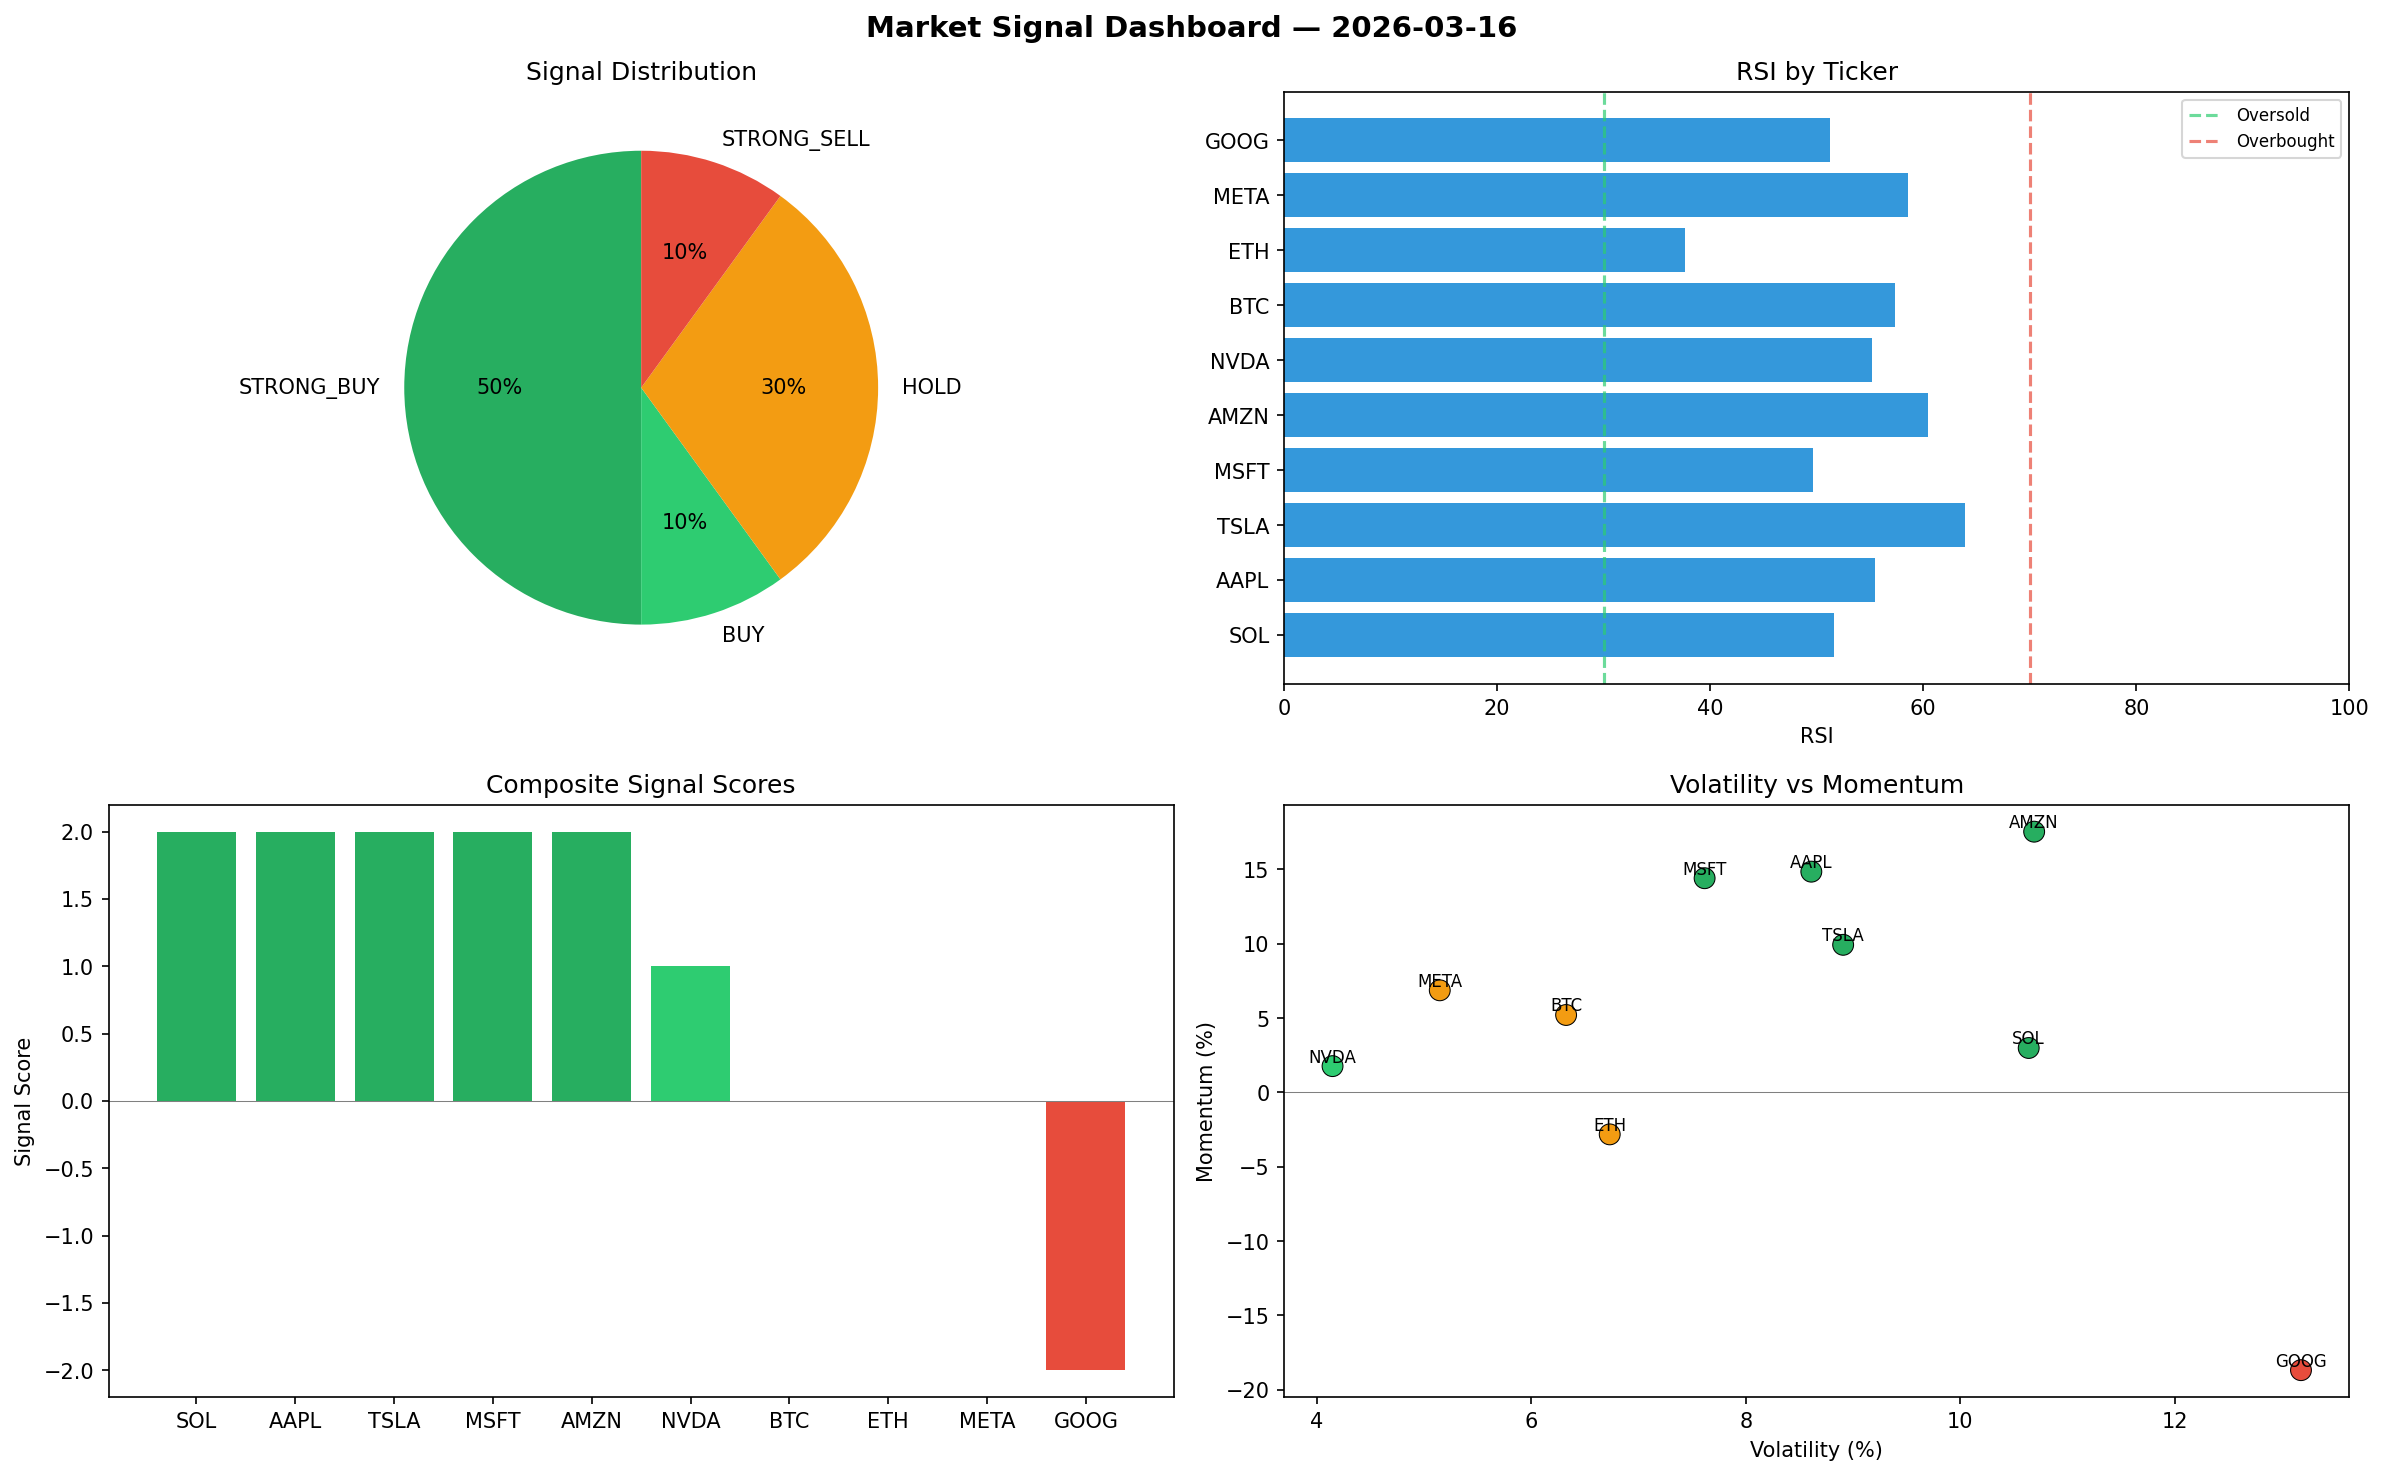
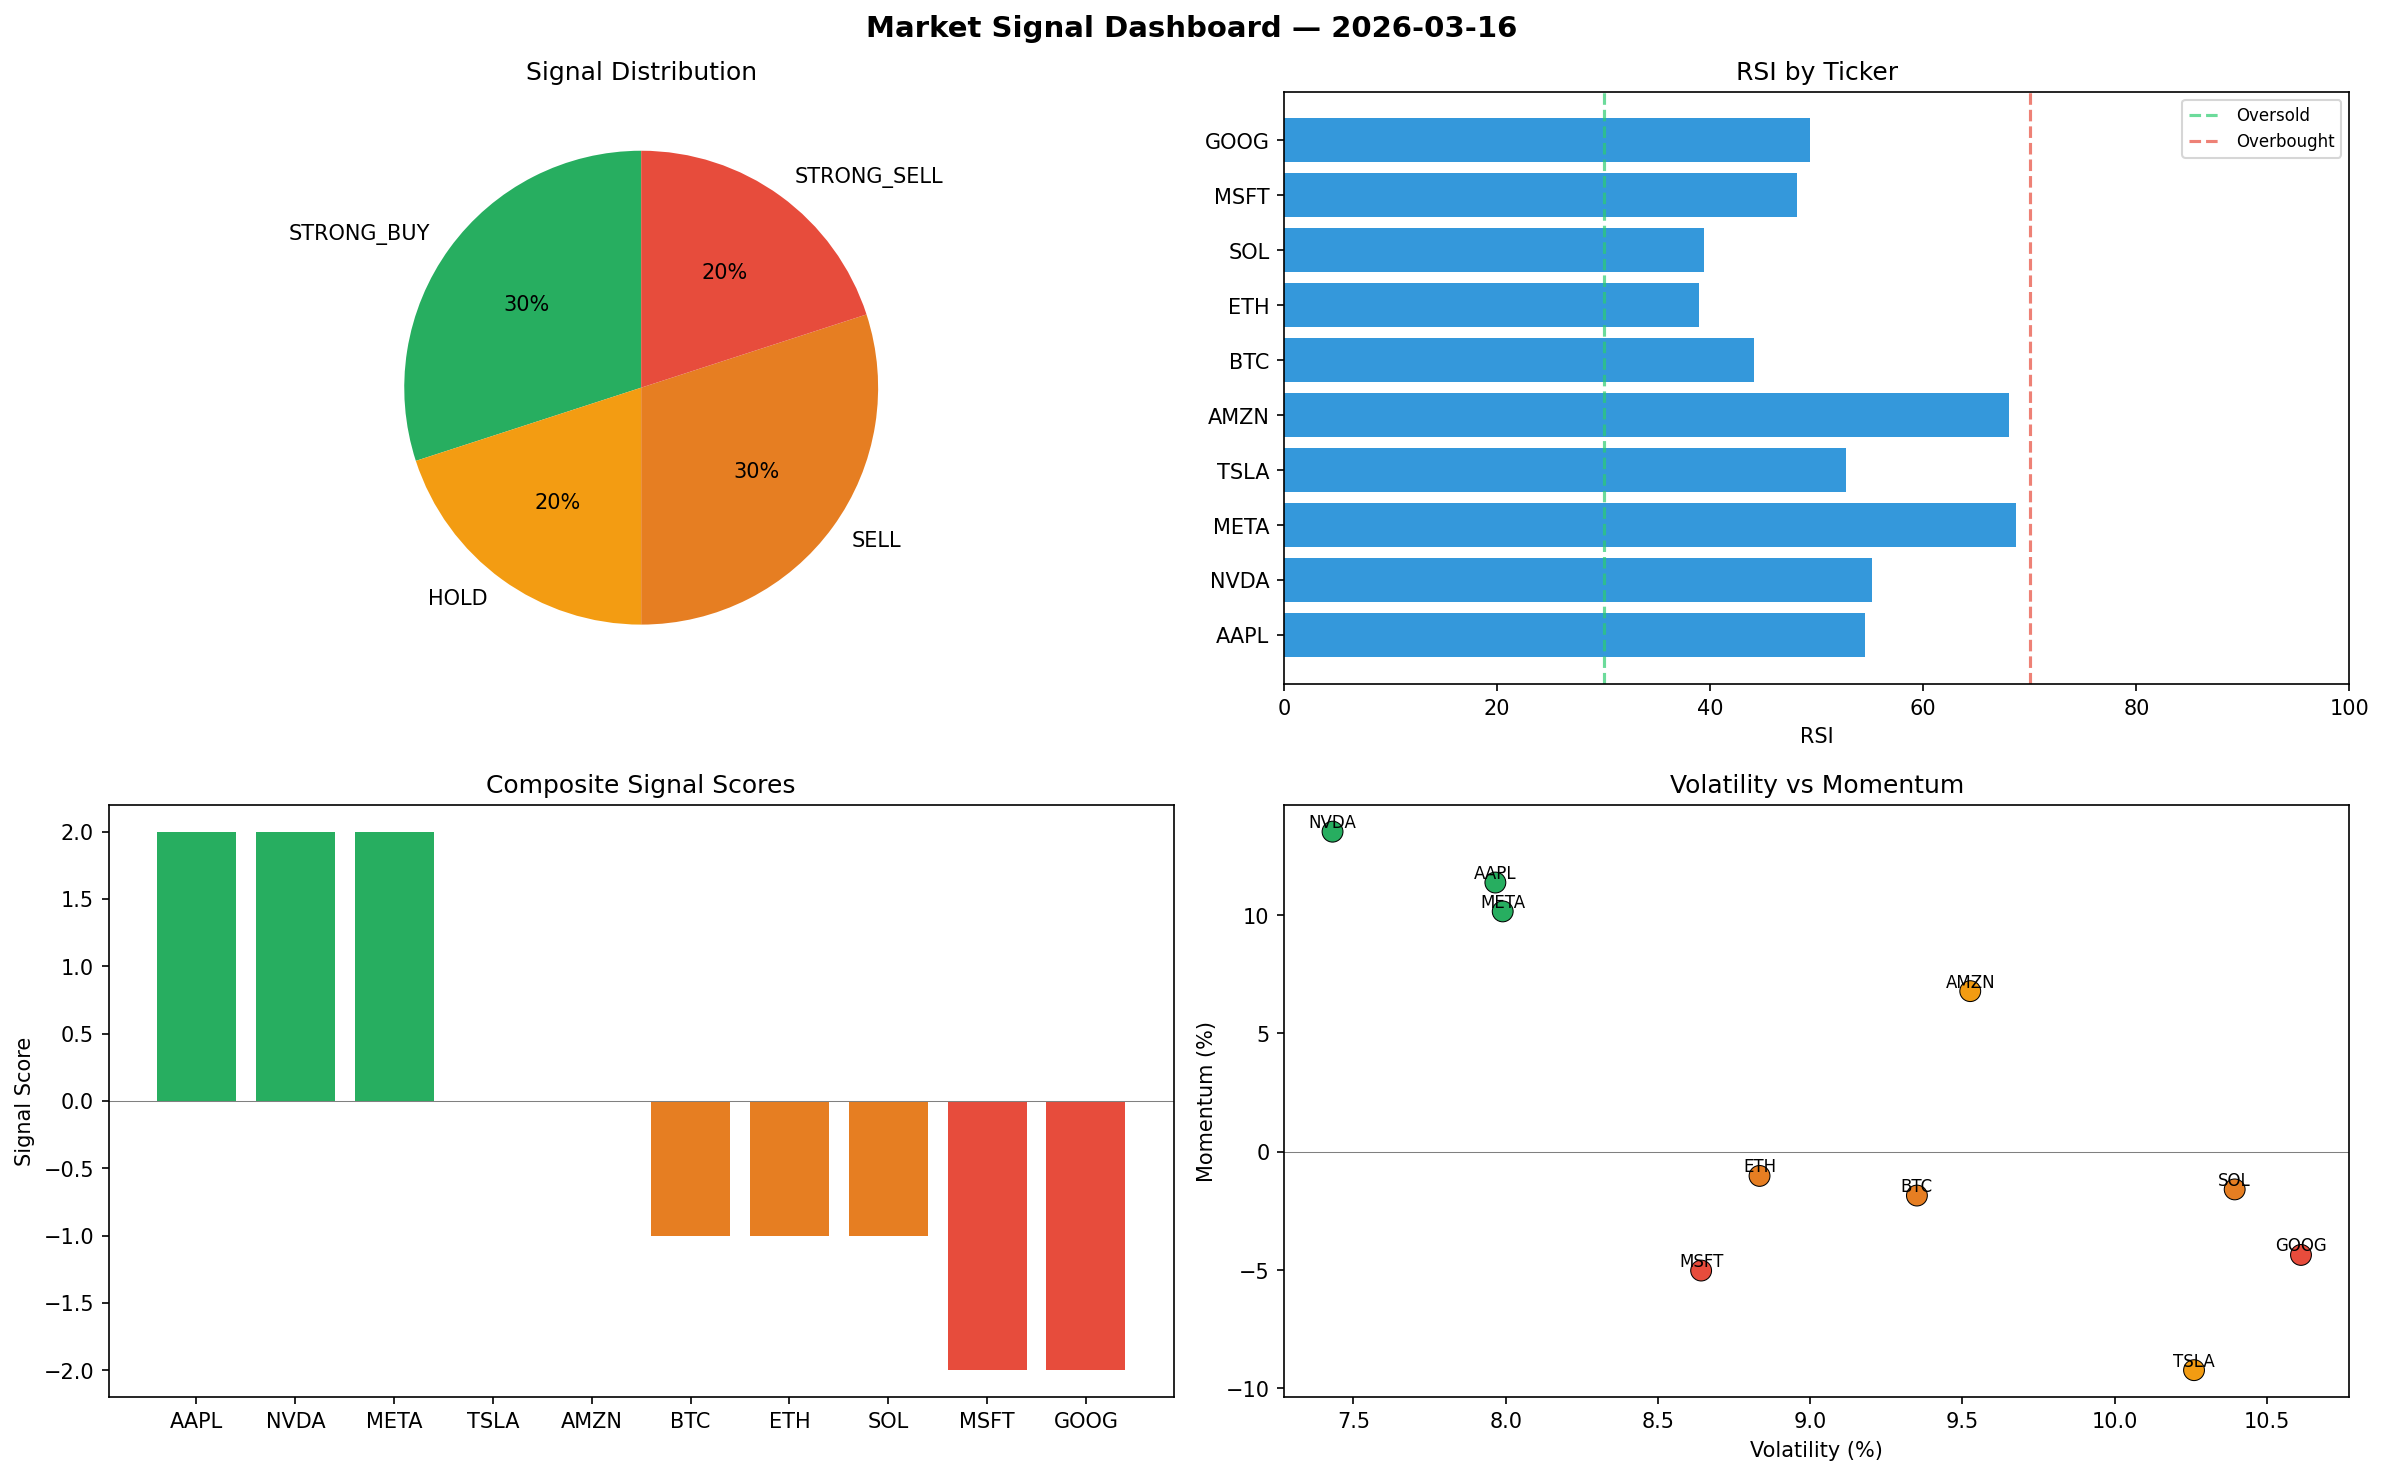
automated-bots: market signals 2026-03-16T15:39

diff --git a/logs/2026-03-16.md b/logs/2026-03-16.md
@@ -1,6 +1,6 @@
 # Market Signal Report — 2026-03-16
 
-**Run ID:** `7ef362f0e4` | **Buy:** 6 | **Sell:** 1 | **Hold:** 3
+**Run ID:** `0558a0ff8a` | **Buy:** 3 | **Sell:** 5 | **Hold:** 2
 
 ![Dashboard](2026-03-16_dashboard.png)
 
@@ -8,28 +8,28 @@
 
 | Ticker | Price | Signal | Score | RSI | Momentum | Confidence |
 |--------|-------|--------|-------|-----|----------|------------|
-| SOL | $798.39 | **STRONG_BUY** | 2 | 51.66 | 0.0299 | 0.5 |
-| AAPL | $1857.36 | **STRONG_BUY** | 2 | 55.51 | 0.1485 | 0.5 |
-| TSLA | $4804.21 | **STRONG_BUY** | 2 | 63.87 | 0.0993 | 0.5 |
-| MSFT | $2185.51 | **STRONG_BUY** | 2 | 49.61 | 0.1441 | 0.5 |
-| AMZN | $3896.9 | **STRONG_BUY** | 2 | 60.42 | 0.1754 | 0.5 |
-| NVDA | $4626.93 | **BUY** | 1 | 55.21 | 0.0177 | 0.25 |
-| BTC | $492.98 | **HOLD** | 0 | 57.36 | 0.0521 | 0.0 |
-| ETH | $1304.72 | **HOLD** | 0 | 37.67 | -0.0282 | 0.0 |
-| META | $3058.56 | **HOLD** | 0 | 58.58 | 0.0687 | 0.0 |
-| GOOG | $248.2 | **STRONG_SELL** | -2 | 51.28 | -0.1868 | 0.5 |
+| AAPL | $2956.04 | **STRONG_BUY** | 2 | 54.5 | 0.1138 | 0.5 |
+| NVDA | $4172.84 | **STRONG_BUY** | 2 | 55.15 | 0.1353 | 0.5 |
+| META | $2062.66 | **STRONG_BUY** | 2 | 68.74 | 0.1016 | 0.5 |
+| TSLA | $2806.27 | **HOLD** | 0 | 52.73 | -0.0923 | 0.0 |
+| AMZN | $2166.3 | **HOLD** | 0 | 68.06 | 0.0679 | 0.0 |
+| BTC | $1790.58 | **SELL** | -1 | 44.14 | -0.0185 | 0.25 |
+| ETH | $1204.01 | **SELL** | -1 | 38.95 | -0.0102 | 0.25 |
+| SOL | $2981.63 | **SELL** | -1 | 39.4 | -0.0159 | 0.25 |
+| MSFT | $4186.66 | **STRONG_SELL** | -2 | 48.15 | -0.0502 | 0.5 |
+| GOOG | $1335.25 | **STRONG_SELL** | -2 | 49.33 | -0.0436 | 0.5 |
 
 ## Delta vs Yesterday
 
 | Ticker | Today | Yesterday | Price Change | Signal Changed |
 |--------|-------|-----------|-------------|----------------|
-| SOL | STRONG_BUY | STRONG_SELL | 📉 -81.29% | ⚠ YES |
-| AAPL | STRONG_BUY | HOLD | 📈 376.01% | ⚠ YES |
-| TSLA | STRONG_BUY | STRONG_SELL | 📈 36.53% | ⚠ YES |
-| MSFT | STRONG_BUY | STRONG_SELL | 📉 -35.26% | ⚠ YES |
-| AMZN | STRONG_BUY | BUY | 📈 35.79% | ⚠ YES |
-| NVDA | BUY | HOLD | 📈 80.46% | ⚠ YES |
-| BTC | HOLD | STRONG_BUY | 📈 1072.37% | ⚠ YES |
-| ETH | HOLD | STRONG_BUY | 📉 -73.86% | ⚠ YES |
-| META | HOLD | HOLD | 📈 116.63% | — |
-| GOOG | STRONG_SELL | HOLD | 📉 -93.63% | ⚠ YES |
+| AAPL | STRONG_BUY | HOLD | 📈 657.59% | ⚠ YES |
+| NVDA | STRONG_BUY | HOLD | 📈 62.75% | ⚠ YES |
+| META | STRONG_BUY | HOLD | 📈 46.1% | ⚠ YES |
+| TSLA | HOLD | STRONG_SELL | 📉 -20.25% | ⚠ YES |
+| AMZN | HOLD | BUY | 📉 -24.51% | ⚠ YES |
+| BTC | SELL | STRONG_BUY | 📈 4158.22% | ⚠ YES |
+| ETH | SELL | STRONG_BUY | 📉 -75.88% | ⚠ YES |
+| SOL | SELL | STRONG_SELL | 📉 -30.12% | ⚠ YES |
+| MSFT | STRONG_SELL | STRONG_SELL | 📈 24.03% | — |
+| GOOG | STRONG_SELL | HOLD | 📉 -65.73% | ⚠ YES |
